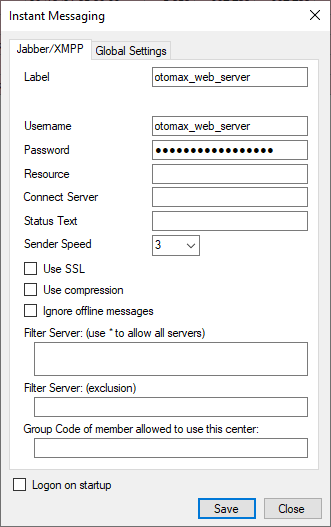
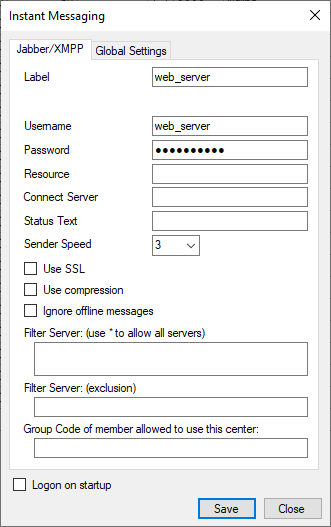
update

diff --git a/docs/otomax/send-inbox.md b/docs/otomax/send-inbox.md
@@ -120,7 +120,7 @@ Path | Params | Description
 
 ## Steps
 
-Tambahkan label `otomax_web_server` di im center untuk menggunakan request inbox
+Tambahkan label `web_server` di im center untuk menggunakan request inbox
 
 <p>
     <figure>
